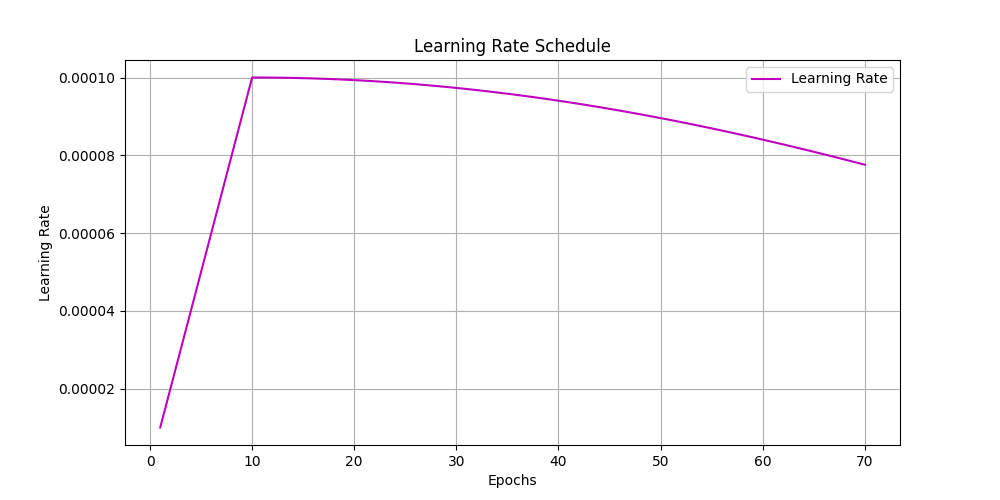
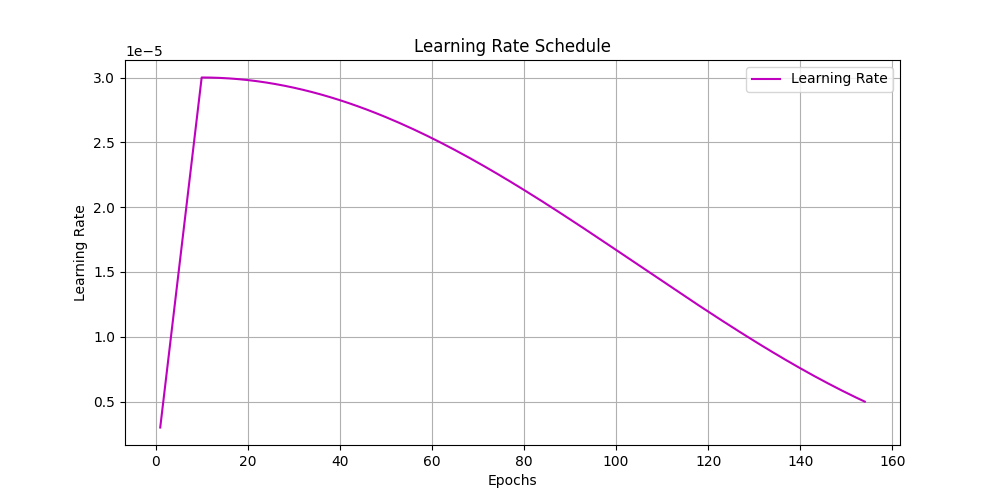
Update README and training metric plots
Revised README to clarify training process, early stopping, and final test results. Added accuracy plot and updated learning rate and loss plots to reflect latest training metrics.

diff --git a/recognition/alzheimer-48024996/README.md b/recognition/alzheimer-48024996/README.md
@@ -77,7 +77,6 @@ This project requires the following Python libraries:
 To train the model from scratch, run the `train.py` script. The data must be in a root directory (e.g., `AD_NC`) with `train` and `test` subfolders, which in turn contain `AD` and `NC` subfolders.
 
 ```bash
-# Example training command:
 python train.py \
     --data-dir AD_NC \
     --output-dir checkpoints \
@@ -92,14 +91,13 @@ python train.py \
 Use the `predict.py` script to run a prediction on a single image using your saved `best_model.pth`.
 
 ```bash
-# Example prediction command:
 python predict.py \
     --image-path /path/to/your/image.jpeg \
     --model-path checkpoints/best_model.pth
 ```
 
 ## Results and Evaluation
-The model's performance is tracked by saving the best model based on validation accuracy. The goal is to achieve an accuracy of 80% or higher on the final, held-out test set.
+The model's performance is tracked by saving the best model based on validation accuracy. The goal is to achieve an accuracy of 80% or higher on the final, held-out test set. It can be seen below that it was supposed to run 200 epochs, but it stopped early because there was not an improvement in the validation accuracy for 30 epochs.
 
 ### Training and Validation Metrics
 The following plots show the model's performance during training on the training and validation sets.
@@ -109,10 +107,10 @@ The following plots show the model's performance during training on the training
 ![Learning Rate Schedule](checkpoints/learning_rate_plot.png)
 
 ### Final Test Set Performance
-After training, the `train.py` script automatically loads the `best_model.pth` and runs a final evaluation on the **test set**.
+After training, the we run the model with the best validation accuracy ($75.79\%$) on on the **test set**.
 
-* **Final Test Loss:** `0`
-* **Final Test Accuracy:** `0`
+* **Final Test Loss:** `0.5175`
+* **Final Test Accuracy:** `0.7434`
 
 ## References
 [1] Y. Rao, W. Zhao, Z. Zhu, J. Zhou, and J. Lu, “GFNet: Global Filter Networks for Visual Recognition,” IEEE Transactions on Pattern Analysis and Machine Intelligence, vol. 45, no. 9, pp. 10 960–10 973, Sep. 2023. [Online]. Available: https://ieeexplore.ieee.org/document/10091201?denied=
